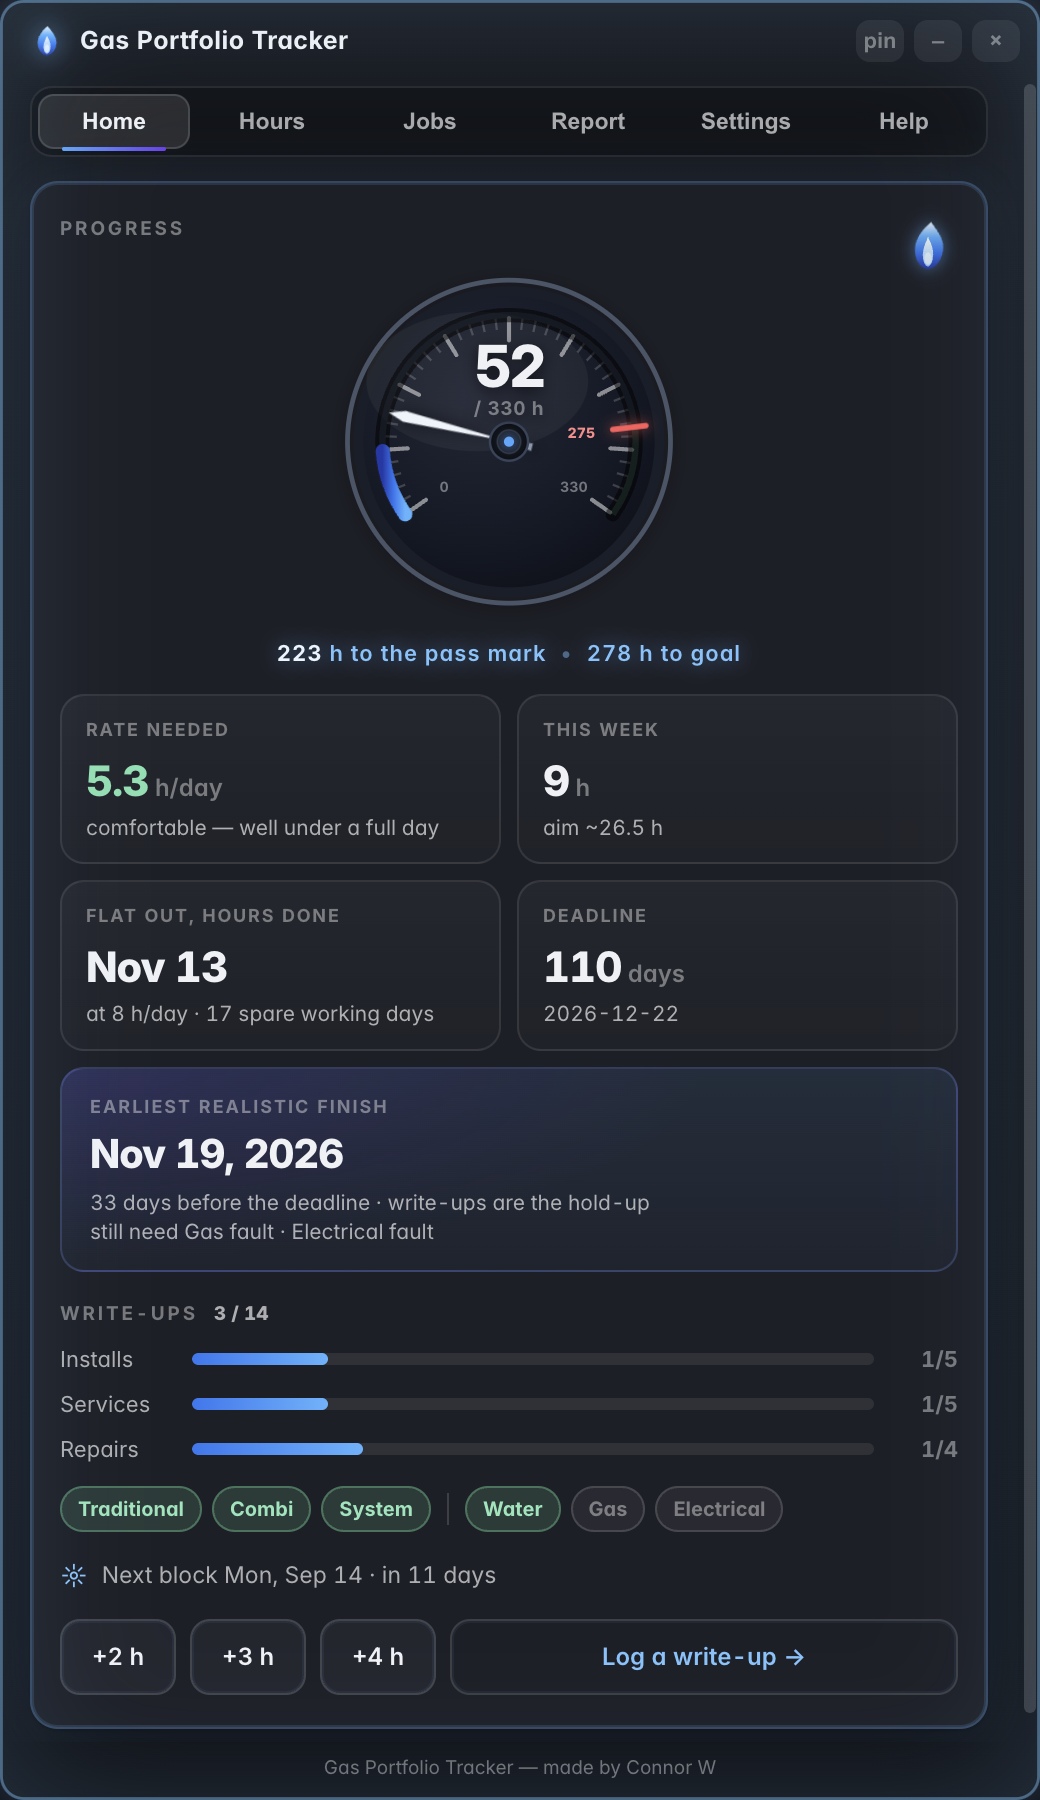
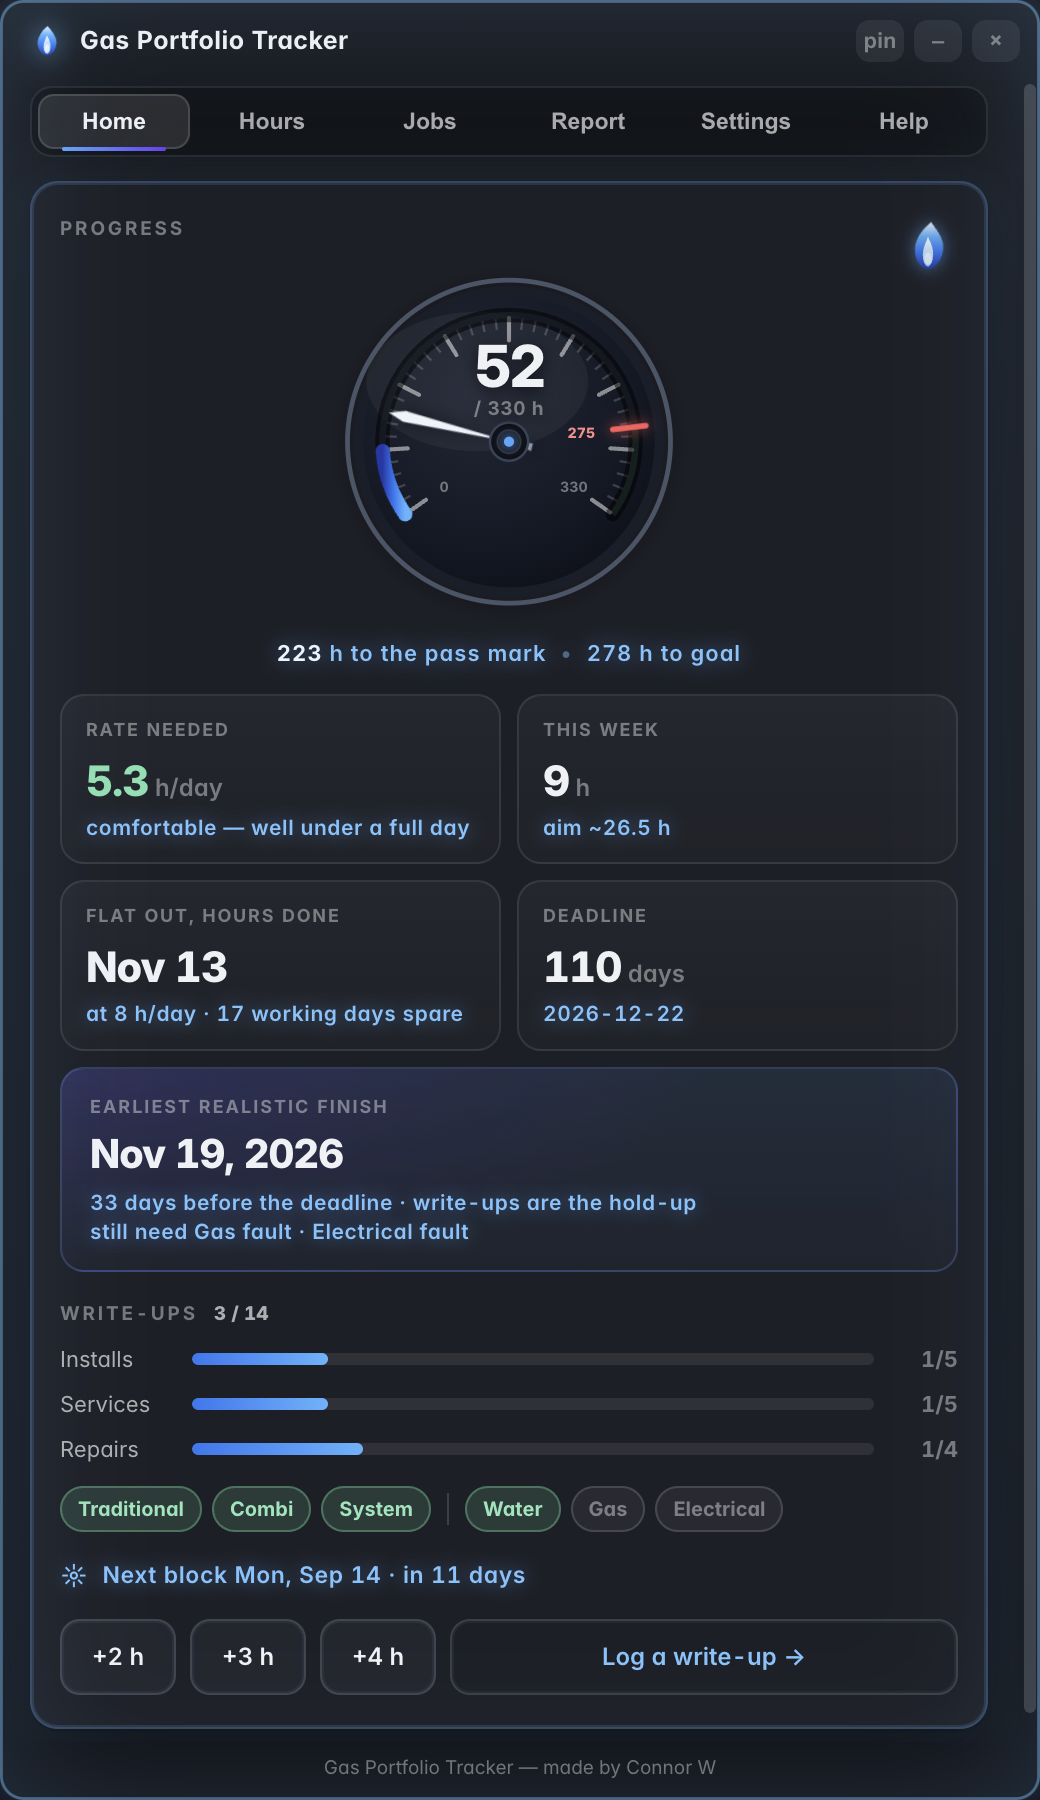
v2.3.3 — Home: blue detail text under every header, consistently
- .ht-s / .ps-s / .hrow now use accent-blue + the same 9px glow as .gaugesub,
  so tile subs, the portfolio strip and the college line all read the same way
- flat-out tile: "17 working days spare" (was "17 spare working days")

diff --git a/src/style.css b/src/style.css
@@ -296,7 +296,10 @@ main > .card:nth-of-type(2) { animation-delay: 0.08s; }
 }
 .home .ht-v { font-size: 21px; font-weight: 800; letter-spacing: -0.5px; margin: 3px 0 1px; }
 .home .ht-v em { font-size: 12px; font-weight: 600; font-style: normal; color: var(--ink-3); letter-spacing: 0; }
-.home .ht-s { font-size: 10.5px; color: var(--ink-2); line-height: 1.35; }
+.home .ht-s {
+  font-size: 10.5px; line-height: 1.35; font-weight: 600; letter-spacing: 0.3px;
+  color: var(--accent-2); text-shadow: 0 0 9px rgba(78, 168, 255, 0.5);
+}
 .home .htile.good .ht-v { color: #7fe0b0; }
 .home .htile.amber .ht-v { color: var(--warn); }
 .home .htile.bad .ht-v { color: var(--danger); }
@@ -316,7 +319,10 @@ main > .card:nth-of-type(2) { animation-delay: 0.08s; }
 }
 .home .ps-k { font-size: 9px; font-weight: 700; letter-spacing: 1px; text-transform: uppercase; color: var(--ink-3); }
 .home .ps-v { font-size: 20px; font-weight: 800; letter-spacing: -0.5px; margin: 2px 0 2px; }
-.home .ps-s { font-size: 10.5px; color: var(--ink-2); line-height: 1.4; }
+.home .ps-s {
+  font-size: 10.5px; line-height: 1.4; font-weight: 600; letter-spacing: 0.3px;
+  color: var(--accent-2); text-shadow: 0 0 9px rgba(78, 168, 255, 0.5);
+}
 
 /* ---- write-ups ---- */
 .home .hsec { margin-top: 14px; }
@@ -344,7 +350,8 @@ main > .card:nth-of-type(2) { animation-delay: 0.08s; }
 
 /* ---- college + quick log ---- */
 .home .hrow {
-  margin-top: 12px; font-size: 11.5px; color: var(--ink-2);
+  margin-top: 12px; font-size: 11.5px; font-weight: 600; letter-spacing: 0.3px;
+  color: var(--accent-2); text-shadow: 0 0 9px rgba(78, 168, 255, 0.5);
   display: flex; align-items: center; gap: 7px;
 }
 .home .hrow .hr-i { color: var(--accent-2); font-size: 13px; }

diff --git a/src/renderer.js b/src/renderer.js
@@ -419,7 +419,7 @@ function homePane(s) {
   const finishV = s.toGoal <= 0 ? "Done"
     : s.canFinish ? fmtDate(s.finishDate, { day: "numeric", month: "short" }) : "Off pace";
   const finishS = s.toGoal <= 0 ? "goal reached"
-    : s.canFinish ? `at ${s.hoursPerDay} h/day &middot; ${s.finishSpareDays} spare working day${s.finishSpareDays === 1 ? "" : "s"}`
+    : s.canFinish ? `at ${s.hoursPerDay} h/day &middot; ${s.finishSpareDays} working day${s.finishSpareDays === 1 ? "" : "s"} spare`
     : `${s.shortfall} h short at ${s.hoursPerDay} h/day`;
   const portDate = s.portfolioCanFinish ? fmtDate(s.portfolioFinishDate, { day: "numeric", month: "short", year: "numeric" }) : "&mdash;";
   const portSlack = s.portfolioSlackDays == null ? ""

diff --git a/CHANGELOG.md b/CHANGELOG.md
@@ -1,5 +1,12 @@
 # Changelog
 
+## 2.3.3 — consistent blue detail text on Home
+
+- Every line under a header on Home is now blue with a soft glow, matching the
+  gauge caption — the stat tiles, the "earliest realistic finish" strip, the
+  college line.
+- "N working days spare" wording on the flat-out tile.
+
 ## 2.3.2 — widget size + a clearer finish tile
 
 - **Widget size** — menu-bar → Widget size → Small / Medium / Large. The gauge
